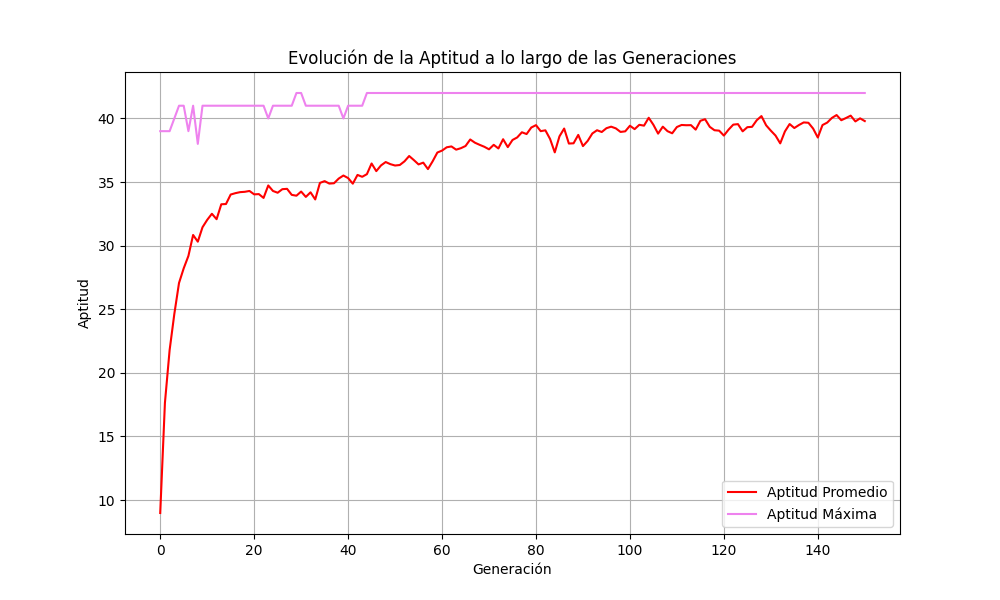
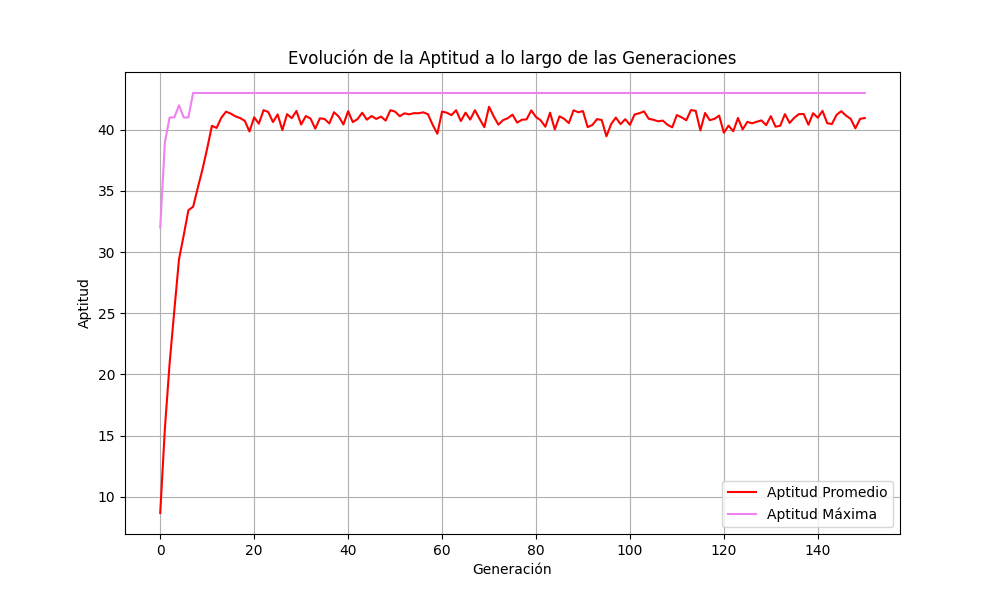
uso de simple

diff --git a/piloto_ideal_ag.py b/piloto_ideal_ag.py
@@ -63,10 +63,14 @@ toolbox.register("mutate", tools.mutFlipBit, indpb=0.05)
 #    para la siguiente generación (o para cruce), DEAP tomará 3 individuos al azar de la
 #    población actual y elegirá al mejor de esos 3 (el que tenga mayor aptitud).
 #    Es un método de selección común y efectivo.
-#toolbox.register("select", tools.selTournament, tournsize=3) 
+toolbox.register("select", tools.selTournament, tournsize=3) 
 
 # AHORA (Selección por ruleta):
-toolbox.register("select", tools.selRoulette)
+#toolbox.register("select", tools.selRoulette)
+
+#Ranking
+#toolbox.register("select", tools.selBest)
+
 
 # --- 4. Configuración de Estadísticas y Salón de la Fama (Hall of Fame) ---
 
@@ -120,17 +124,24 @@ def ejecutar_ag():
     # lambda_ = número de hijos a generar en cada generación.
     
     # El objeto 'logbook' registrará las estadísticas de cada generación.
-    pop, logbook = algorithms.eaMuPlusLambda(
-        pop,                     # La población inicial
-        toolbox,                 # Nuestra caja de herramientas con los operadores registrados
-        mu=TAM_POBLACION,        # Número de individuos a seleccionar para la siguiente generación
-        lambda_=TAM_POBLACION,   # Número de hijos a generar
-        cxpb=PROBABILIDAD_CRUCE, # Probabilidad de cruce
-        mutpb=PROBABILIDAD_MUTACION, # Probabilidad de mutación
-        ngen=NUM_GENERACIONES,   # Número de generaciones
-        stats=stats,             # Objeto para registrar estadísticas
-        halloffame=hof,          # Objeto para guardar al mejor(es) individuo(s)
-        verbose=True             # Imprime información del progreso en cada generación
+    pop, logbook = algorithms.eaSimple(
+        pop, toolbox,
+    cxpb=PROBABILIDAD_CRUCE,
+    mutpb=PROBABILIDAD_MUTACION,
+    ngen=NUM_GENERACIONES,
+    stats=stats,
+    halloffame=hof,
+    verbose=True
+#        pop,                     # La población inicial
+ #       toolbox,                 # Nuestra caja de herramientas con los operadores registrados
+  #      mu=TAM_POBLACION,        # Número de individuos a seleccionar para la siguiente generación
+  #      lambda_=TAM_POBLACION,   # Número de hijos a generar
+  #      cxpb=PROBABILIDAD_CRUCE, # Probabilidad de cruce
+  #      mutpb=PROBABILIDAD_MUTACION, # Probabilidad de mutación
+  #      ngen=NUM_GENERACIONES,   # Número de generaciones
+  #      stats=stats,             # Objeto para registrar estadísticas
+  #      halloffame=hof,          # Objeto para guardar al mejor(es) individuo(s)
+  #      verbose=True             # Imprime información del progreso en cada generación
     )
 
     return pop, logbook, hof
